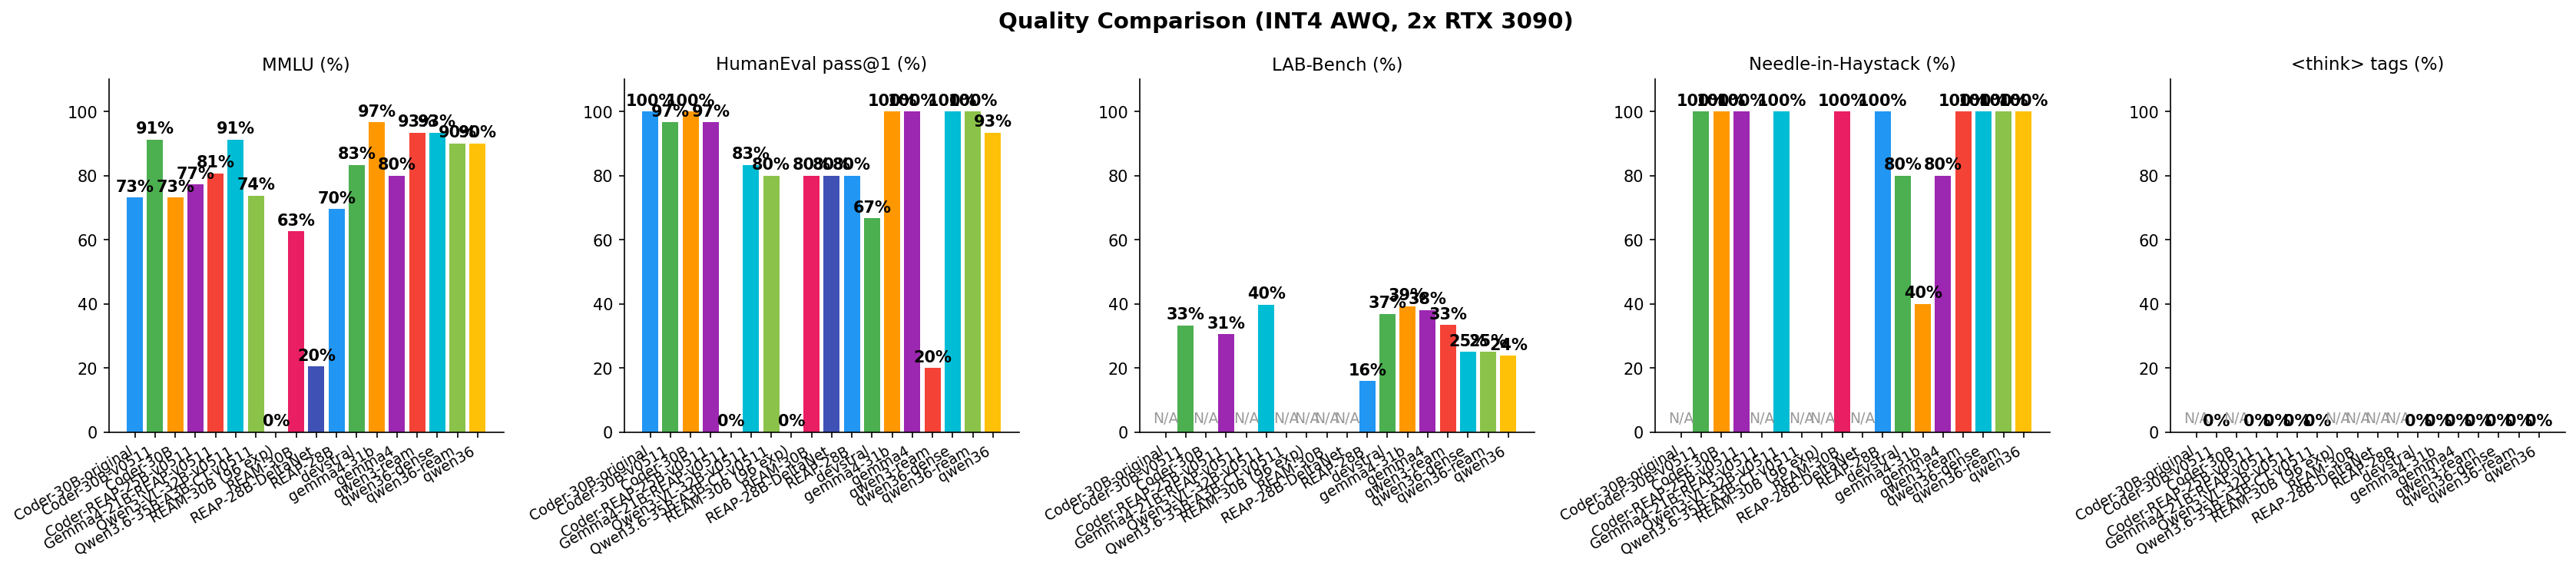
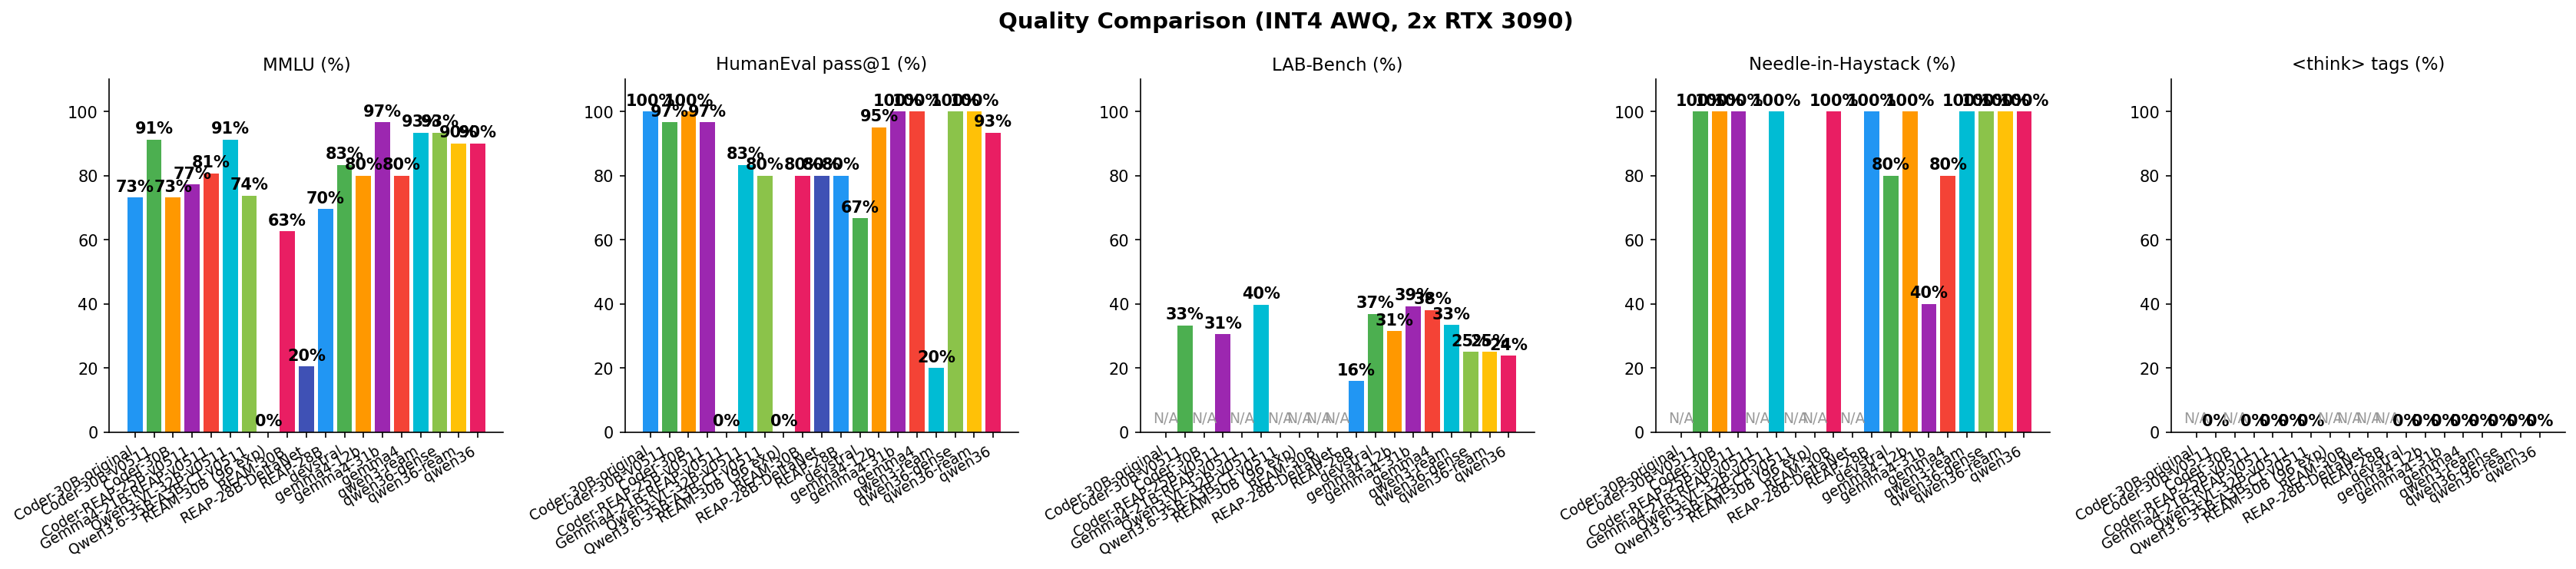
gemma4-12b AWQ: add to fleet charts/benchmarks/evals + README row
Full v0.5.12 eval (text-only, TP=2, lengths capped to the 102K KV reach):
  MMLU 80% (n30) · HumanEval 95% (n20) · LAB-Bench 31.4% · needle 100%
  256K tool-use 100% valid+correct to 95K · thinking clean (1.0, no truncation)
  decode ~42 tok/s flat 1K-65K (Gemma triton, no cuda-graph)
quality_comparison.png regenerated (gemma4-12b in the fleet quality chart).
README Model-Support row added + candidate narrative updated to shipped state.
Open: vision serving WIP, KV 102K (swa-pool tuning for true 256K), HF push held.

diff --git a/README.md b/README.md
@@ -38,7 +38,7 @@ What's queued, grouped by theme. Calibration work is gated on the bake-off sweep
 
 Both archs have **upstream SGLang loaders grafted onto our v0.5.12 tree** — no from-scratch port. Each passed GPU-free validation (import + AST constructor-drift check, zero kwarg drift on core primitives).
 
-1. **`google/gemma-4-12B-it`** (`Gemma4UnifiedForConditionalGeneration`, patches 042–046) — the most KV-efficient Gemma: global-MQA + 5:1 sliding:full + `attention_k_eq_v` ≈ 8 KB/token, and **no heavy SigLIP tower** (raw patches → lightweight embedders), so BF16 is only ~24 GB and fits TP=2 **without quantization**. Would be the first Gemma to actually serve 256K on 48 GB (26B/31B are KV-walled by their FP16 vision towers). It's a transformers-5.10.dev arch; the full back-port to our tx-5.6 / v0.5.12 stack is now in place — model loader (043) + vendored config (044) + head-dim/eoa remap (045) + the four-class processor stack (046, all modalities preserved), no fleet-wide transformers bump. `AutoProcessor` builds the complete processor offline; **the live 256K boot is the last step** (just needs a free GPU window). Preset `gemma4-12b` targets `-it` (the deployable checkpoint). Cleaner long-term route remains a coordinated SGLang+transformers-5.10 bump (after which 042–046 become moot).
+1. **`google/gemma-4-12B-it`** (`Gemma4UnifiedForConditionalGeneration`, patches 042–047) — **SHIPPING (text), preset `gemma4-12b`.** The encoder-free omni Gemma (global-MQA + 5:1 sliding:full + `attention_k_eq_v`, no SigLIP tower). Full back-port done (loader 043 + vendored config 044 + remap 045 + four-class processor stack 046) and **patch 047** routes the unified arch through the hybrid-SWA KV pool — it was excluded from 3 arch lists, so TP=2 hit a uniform-pool `store_cache` crash. In-house int4 **AWQ via data-free RTN-from-QAT** (`google/gemma-4-12B-it-qat-q4_0-unquantized` → `scripts/quantize/quantize_gemma4_12b_qat_rtn_awq.py`, `check_awq_scales` 0/328). Serves TP=2 awq_marlin at 5.4 GB/rank: **MMLU 80% · HumanEval 95% · needle 100% · 256K tool-use 100%→95K · thinking clean · ~42 tok/s** (Gemma triton, no cuda-graph). **Two open gaps:** KV caps at **102K** (the SWA pool dominates VRAM — true 256K needs swa-pool tuning), and **vision serving crashes** (gemma4_unified image-token-expansion gap in SGLang's base `Gemma4SGLangProcessor` — 256 patch embeddings vs 1 placeholder; arch-agnostic, weights intact BF16). HF push held until vision is verified (modality mandate).
 2. **`CohereLabs/BLS-Mini-Code-1.0`** (`Cohere2MoeForCausalLM`, patch 042) — 128-expert fine-grained MoE thinking+agentic coder, 500K native, ~26 KB/token (7 GB KV @256K). Loader grafts clean and validates GPU-free, but ~30B BF16 (61 GB) exceeds 48 GB, so it needs an **AWQ int4 build first** (calib device; preserve thinking+tool+vision, eos 255001, Cohere Command chat template) before it can boot.
 
 ### Nemotron-3-Nano-Omni AWQ build chain
@@ -226,6 +226,7 @@ Full host-side scaffold + toolchain notes (opencode + little-coder + claw-code, 
 | Coder-REAP-30B AWQ-Marlin | MoE A3B (96 exp) | **262K** | 109 | `coder-reap-25b` | [`mattbucci/Qwen3-Coder-30B-A3B-REAP-AWQ`](https://huggingface.co/mattbucci/Qwen3-Coder-30B-A3B-REAP-AWQ) (R9700 in-house). |
 | **Gemma 4 31B Dense AWQ** | Dense (VL) | **~24K** ‡‡ | ~22 | `gemma4-31b` | [`mattbucci/gemma-4-31B-AWQ`](https://huggingface.co/mattbucci/gemma-4-31B-AWQ). LM INT4, vision tower FP16. |
 | **Gemma 4 26B MoE AWQ** | MoE A4B (103 exp, VL) | **~118K** ‡‡ | 22 | `gemma4` | [`mattbucci/gemma-4-26B-AWQ`](https://huggingface.co/mattbucci/gemma-4-26B-AWQ). |
+| **Gemma 4 12B Unified AWQ** | Omni, encoder-free | **102K** ‡‡ | 42 | `gemma4-12b` | In-house int4 RTN-from-QAT (`/data/models/gemma-4-12B-it-AWQ`). MMLU 80 / HE 95 / needle 100 / tool-use 100→95K, thinking clean. **Text shipping; vision serving WIP** (gemma4_unified image-token-expansion gap). Not yet on HF. |
 | **Qwen3.6-27B Dense AWQ** | Dense + DeltaNet (VL) | **262K** (657K KV) | 21 | `qwen36-dense` | [`mattbucci/Qwen3.6-27B-AWQ`](https://huggingface.co/mattbucci/Qwen3.6-27B-AWQ) (R9700 self-cal). |
 | **Devstral-Small-2-24B AWQ** | Dense (VL) | **~172K** ‡‡ | 56 | `devstral` | [`mattbucci/Devstral-Small-2-24B-AWQ`](https://huggingface.co/mattbucci/Devstral-Small-2-24B-AWQ). The canonical Devstral; built from [`mistralai/Devstral-Small-2-24B-Instruct-2512`](https://huggingface.co/mistralai/Devstral-Small-2-24B-Instruct-2512). FP8→BF16→GPTQ+tool-cal→AWQ. |
 | **Qwen3-VL-32B Instruct AWQ** | Dense (VL) | **131K** (model-card cap) | 40 | `qwen3-vl-32b` | [`mattbucci/Qwen3-VL-32B-AWQ`](https://huggingface.co/mattbucci/Qwen3-VL-32B-AWQ) (R9700). 68→50→40 tok/s @ 1K/65K/131K. |